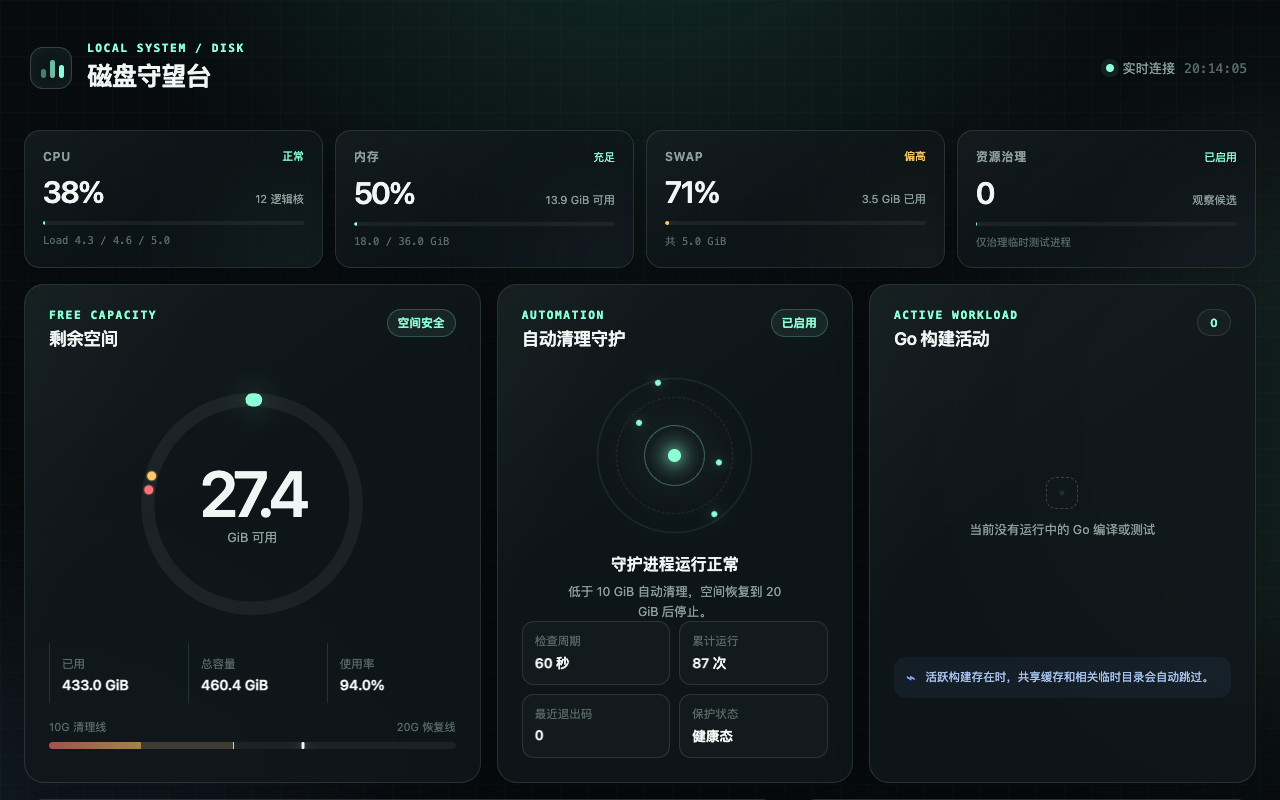
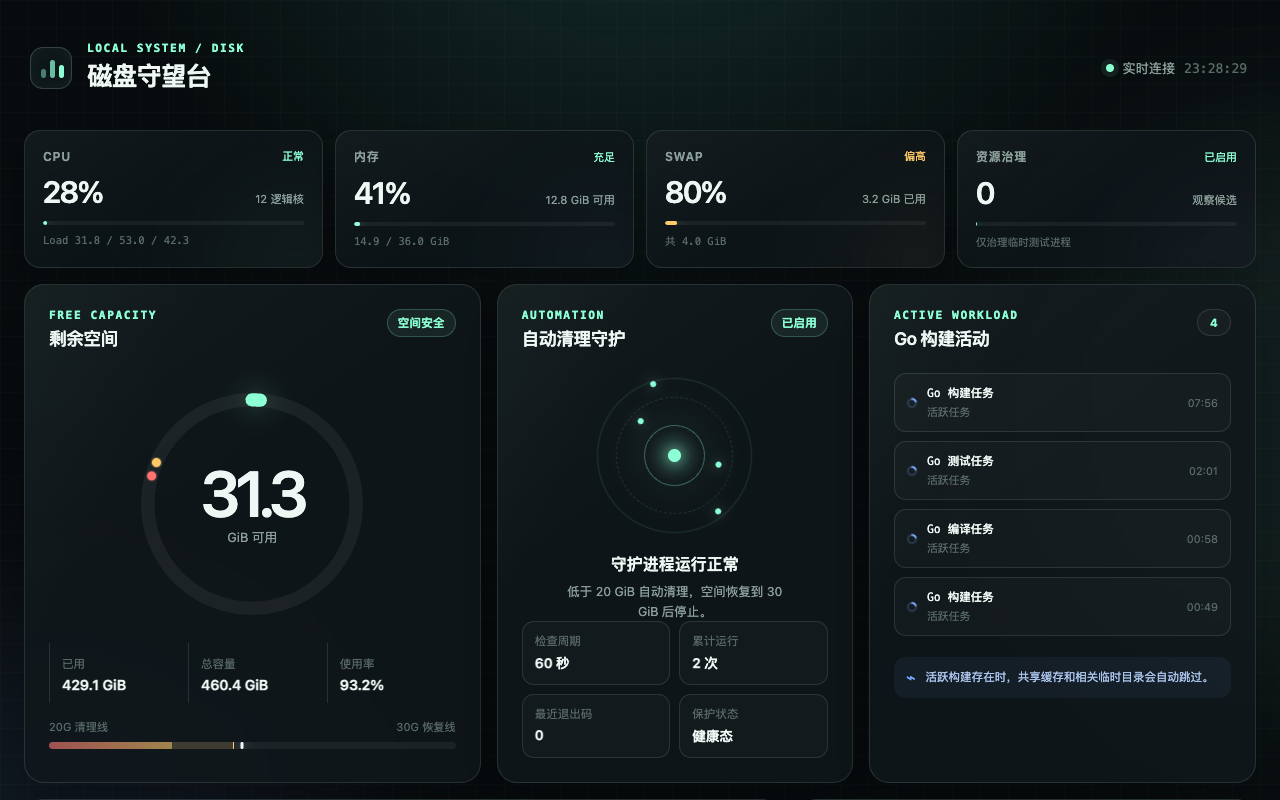
Raise disk cleanup threshold to 20 GiB

diff --git a/chrome-extension/service-worker.js b/chrome-extension/service-worker.js
@@ -6,8 +6,8 @@ const ALARM_NAME = "disk-guardian-status-refresh";
 
 function badgeState(payload) {
   const free = payload?.disk?.free_gib;
-  const threshold = payload?.guard?.threshold_gib ?? 10;
-  const target = payload?.guard?.target_gib ?? 20;
+  const threshold = payload?.guard?.threshold_gib ?? 20;
+  const target = payload?.guard?.target_gib ?? 30;
   if (!Number.isFinite(free)) {
     return { text: "!", color: "#ff726f", title: "本机守护服务未连接" };
   }

diff --git a/dist/index.html b/dist/index.html
@@ -168,8 +168,8 @@
 
           <div class="threshold-bar">
             <div class="threshold-scale">
-              <span id="threshold-label">10G 清理线</span>
-              <span id="target-label">20G 恢复线</span>
+              <span id="threshold-label">20G 清理线</span>
+              <span id="target-label">30G 恢复线</span>
             </div>
             <div class="bar-track">
               <span class="danger-zone" id="danger-zone"></span>

diff --git a/tests/test_server.py b/tests/test_server.py
@@ -19,6 +19,9 @@ import server  # noqa: E402
 EXTENSION_ORIGIN = (
     "chrome-extension://ccpomkognonnccbjmiapheoadpnepnde"
 )
+STORE_EXTENSION_ORIGIN = (
+    "chrome-extension://knfhjpciofoakljbmneaaailglnmamlk"
+)
 
 
 class ExtensionProjectionTests(unittest.TestCase):
@@ -27,14 +30,14 @@ class ExtensionProjectionTests(unittest.TestCase):
             "timestamp": "2026-09-26T12:00:00+08:00",
             "disk": {
                 "total_gib": 100,
-                "used_gib": 90,
-                "free_gib": 10,
-                "used_percent": 90,
-                "free_percent": 10,
+                "used_gib": 80,
+                "free_gib": 20,
+                "used_percent": 80,
+                "free_percent": 20,
             },
             "guard": {
-                "threshold_gib": 10,
-                "target_gib": 20,
+                "threshold_gib": 20,
+                "target_gib": 30,
                 "interval_seconds": 60,
                 "loaded": True,
                 "enabled": True,
@@ -157,6 +160,18 @@ class HttpBoundaryTests(unittest.TestCase):
             origin="https://attacker.example",
         )
         self.assertEqual(response.status, 403)
+
+    def test_store_extension_origin_can_read_projection(self) -> None:
+        response = self.request(
+            "GET",
+            "/api/extension/status",
+            origin=STORE_EXTENSION_ORIGIN,
+        )
+        self.assertEqual(response.status, 200)
+        self.assertEqual(
+            response.getheader("Access-Control-Allow-Origin"),
+            STORE_EXTENSION_ORIGIN,
+        )
 
     def test_extension_origin_cannot_post_cleanup(self) -> None:
         response = self.request(

diff --git a/scripts/package_chrome_store.py b/scripts/package_chrome_store.py
@@ -12,7 +12,6 @@ from pathlib import Path
 
 ROOT = Path(__file__).resolve().parents[1]
 EXTENSION_DIR = ROOT / "chrome-extension"
-OUTPUT = ROOT / "disk-guard-chrome-store-0.2.0.zip"
 ZIP_TIMESTAMP = (2026, 1, 1, 0, 0, 0)
 
 
@@ -26,14 +25,18 @@ def add_bytes(
 
 
 def parse_args() -> argparse.Namespace:
+    manifest = json.loads((EXTENSION_DIR / "manifest.json").read_text())
+    default_output = (
+        ROOT / f"disk-guard-chrome-store-{manifest['version']}.zip"
+    )
     parser = argparse.ArgumentParser(
         description="Build a first-upload Chrome Web Store ZIP."
     )
     parser.add_argument(
         "--output",
         type=Path,
-        default=OUTPUT,
-        help=f"Output ZIP path (default: {OUTPUT.name})",
+        default=default_output,
+        help=f"Output ZIP path (default: {default_output.name})",
     )
     return parser.parse_args()
 
@@ -67,7 +70,7 @@ def main() -> int:
 
     with zipfile.ZipFile(output) as archive:
         packaged_manifest = json.loads(archive.read("manifest.json"))
-        assert packaged_manifest["version"] == "0.2.0"
+        assert packaged_manifest["version"] == manifest["version"]
         assert "key" not in packaged_manifest
         assert archive.namelist()[0] == "manifest.json"
         assert not any(

diff --git a/system_metrics.py b/system_metrics.py
@@ -73,8 +73,8 @@ def read_json(path: Path) -> dict[str, Any]:
 
 def read_guard_config() -> dict[str, int]:
     defaults = {
-        "threshold_gib": 10,
-        "target_gib": 20,
+        "threshold_gib": 20,
+        "target_gib": 30,
         "min_age_seconds": 3600,
         "cache_quiet_seconds": 300,
         "interval_seconds": 60,
@@ -86,10 +86,10 @@ def read_guard_config() -> dict[str, int]:
         defaults.update(
             {
                 "threshold_gib": int(
-                    environment.get("DISK_GUARDIAN_THRESHOLD_GIB", 10)
+                    environment.get("DISK_GUARDIAN_THRESHOLD_GIB", 20)
                 ),
                 "target_gib": int(
-                    environment.get("DISK_GUARDIAN_TARGET_GIB", 20)
+                    environment.get("DISK_GUARDIAN_TARGET_GIB", 30)
                 ),
                 "min_age_seconds": int(
                     max(

diff --git a/tests/test_scripts.py b/tests/test_scripts.py
@@ -34,7 +34,7 @@ def release_id() -> str:
         digest = hashlib.sha256((ROOT / relative).read_bytes()).hexdigest()
         lines.append(f"{digest}  {relative}\n")
     digest = hashlib.sha256("".join(lines).encode()).hexdigest()
-    return f"0.2.0-{digest[:12]}"
+    return f"0.2.1-{digest[:12]}"
 
 
 class ScriptTests(unittest.TestCase):
@@ -122,6 +122,7 @@ class ScriptTests(unittest.TestCase):
             (self.install / "install.json").read_text()
         )
         self.assertEqual(config["release_id"], identity)
+        self.assertEqual(config["version"], "0.2.1")
         self.assertEqual(config["threshold_gib"], 11)
         self.assertEqual(config["target_gib"], 23)
         self.assertEqual(

diff --git a/tests/test_extension.py b/tests/test_extension.py
@@ -33,6 +33,7 @@ class ExtensionManifestTests(unittest.TestCase):
         )
 
     def test_manifest_has_fixed_expected_id(self) -> None:
+        self.assertEqual(self.manifest["version"], "0.2.1")
         self.assertEqual(
             extension_id(self.manifest["key"]),
             EXPECTED_ID,
@@ -79,6 +80,7 @@ class ExtensionManifestTests(unittest.TestCase):
             with zipfile.ZipFile(package) as archive:
                 manifest = json.loads(archive.read("manifest.json"))
                 self.assertNotIn("key", manifest)
+                self.assertEqual(manifest["version"], "0.2.1")
                 self.assertEqual(archive.namelist()[0], "manifest.json")
 
 

diff --git a/companion/disk_guard.py b/companion/disk_guard.py
@@ -34,10 +34,10 @@ STATE_DIR = Path(
 STATE_PATH = STATE_DIR / "disk_guard_state.json"
 
 THRESHOLD_GIB = int(
-    os.environ.get("DISK_GUARDIAN_THRESHOLD_GIB", "10")
+    os.environ.get("DISK_GUARDIAN_THRESHOLD_GIB", "20")
 )
 TARGET_GIB = int(
-    os.environ.get("DISK_GUARDIAN_TARGET_GIB", "20")
+    os.environ.get("DISK_GUARDIAN_TARGET_GIB", "30")
 )
 HEALTHY_HEARTBEAT_SECONDS = int(
     os.environ.get(

diff --git a/server.py b/server.py
@@ -23,7 +23,8 @@ EXTENSION_ORIGINS = {
     origin.strip()
     for origin in os.environ.get(
         "DISK_GUARDIAN_EXTENSION_ORIGINS",
-        "chrome-extension://ccpomkognonnccbjmiapheoadpnepnde",
+        "chrome-extension://ccpomkognonnccbjmiapheoadpnepnde,"
+        "chrome-extension://knfhjpciofoakljbmneaaailglnmamlk",
     ).split(",")
     if origin.strip().startswith("chrome-extension://")
 }

diff --git a/docs/CHROME_WEB_STORE.md b/docs/CHROME_WEB_STORE.md
@@ -44,7 +44,7 @@ Native Messaging。
 1. Chrome 扩展本身不能删除 macOS 文件
 2. 用户必须单独安装本机 Companion
 3. 自动清理由当前用户权限下的 Companion 执行
-4. 默认低于 10 GiB 触发，恢复到 20 GiB 停止
+4. 默认低于 20 GiB 触发，恢复到 30 GiB 停止
 5. 删除范围是固定白名单，具体见安全文档
 6. 用户可以通过卸载 Companion 完全停用自动清理
 
@@ -70,6 +70,12 @@ ccpomkognonnccbjmiapheoadpnepnde
 商店 Public key，再更新源码 `manifest.json` 的 `key`，使后续开发版与商店
 版本使用相同 ID。
 
+当前商店 Item ID：
+
+```text
+knfhjpciofoakljbmneaaailglnmamlk
+```
+
 ## 上架素材
 
 准备以下素材：
@@ -90,7 +96,7 @@ ZIP 根目录必须直接包含 `manifest.json`。首次商店上传使用：
 
 ```bash
 python3 scripts/package_chrome_store.py
-shasum -a 256 -c disk-guard-chrome-store-0.2.0.zip.sha256
+shasum -a 256 -c disk-guard-chrome-store-0.2.1.zip.sha256
 ```
 
 商店包不含开发版 `key`。提交前解压到空目录并通过

diff --git a/store-assets/LISTING.md b/store-assets/LISTING.md
@@ -28,7 +28,7 @@
 • 展示高占用进程，但普通应用和系统进程不会被自动终止
 
 自动清理说明：
-Chrome 扩展自身不能删除 macOS 文件。用户必须单独安装开源的本机 Companion。默认情况下，磁盘剩余空间低于 10 GiB 时，Companion 会检查可重建开发产物；恢复到 20 GiB 后停止。每个候选都必须通过路径、所有者、文件类型、年龄、打开文件和活跃进程校验。
+Chrome 扩展自身不能删除 macOS 文件。用户必须单独安装开源的本机 Companion。默认情况下，磁盘剩余空间低于 20 GiB 时，Companion 会检查可重建开发产物；恢复到 30 GiB 后停止。每个候选都必须通过路径、所有者、文件类型、年龄、打开文件和活跃进程校验。
 
 始终保留：
 • Go 模块缓存
